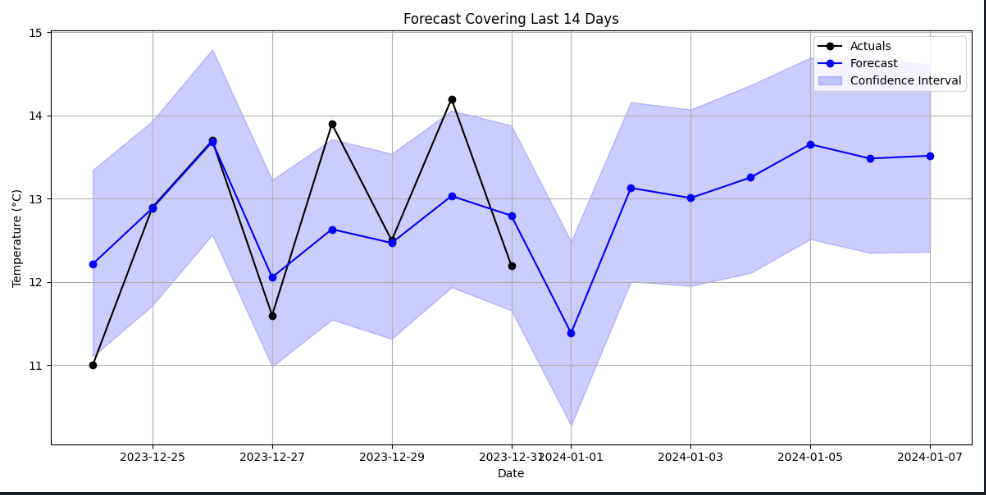
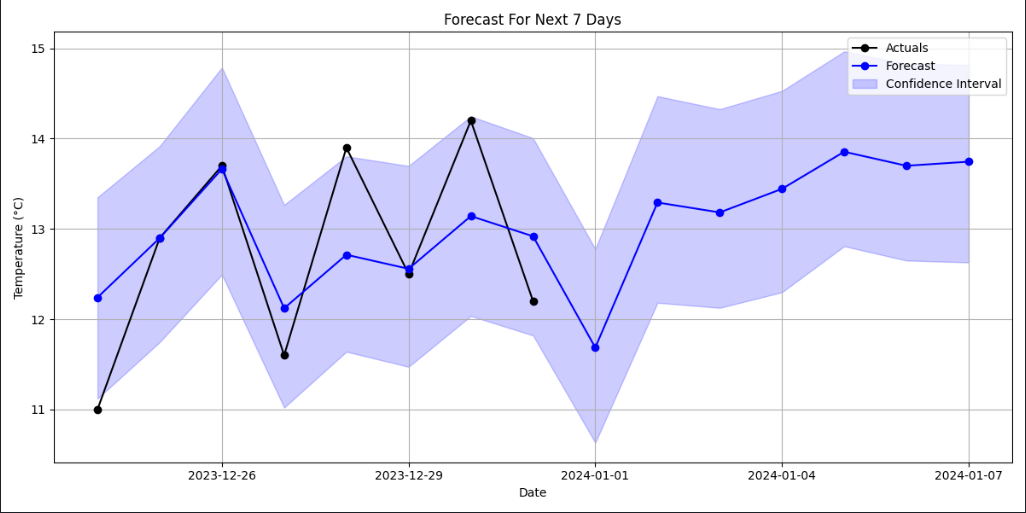
avoid overlap of labels

diff --git a/forecast.py b/forecast.py
@@ -163,9 +163,9 @@ class WeatherForecaster:
 
             # Perform Cross-validation, Dynamic configuration based on data size
             if total_days <= 366:  # ~1 year of data
-                initial = '335 days'  # Train on first 300 days (~10 months)
+                initial = '300 days'  # Train on first 300 days (~10 months)
                 period = '30 days'  # Create monthly validation folds
-                horizon = '7 days'  # Validate on last 30 days
+                horizon = '30 days'  # Validate on last 30 days
             else:
                 initial = '365 days'  # Full year base
                 period = '90 days'
@@ -353,10 +353,13 @@ class WeatherForecaster:
 
             plt.xlabel('Date')
             plt.ylabel('Temperature (°C)')
-            plt.title(f'Forecast Covering Last {2 * last_n_days} Days')
+            plt.title(f'Forecast For Next {last_n_days} Days')
             plt.legend()
             plt.grid(True)
             plt.tight_layout()
+
+            plt.gca().xaxis.set_major_locator(plt.MaxNLocator(nbins=6))  # avoid overlap of labels
+
             plt.show()
 
         if plot_components:

diff --git a/readme.md b/readme.md
@@ -5,6 +5,6 @@
 - `forecast.py`: updated python file
 - `forecast.csv`: weather forecast for the next 7 days, from the last date of the training data 
 - `forecast.png`: image showing weather forecast for the next 7 days, from the last date of the training data
-- `test_weather_forecast.py`: weather forecast test file 
+- `test_weather_forecast.py`: weather forecast test file
 
 ![7 Day Forecast](forecast.png)
